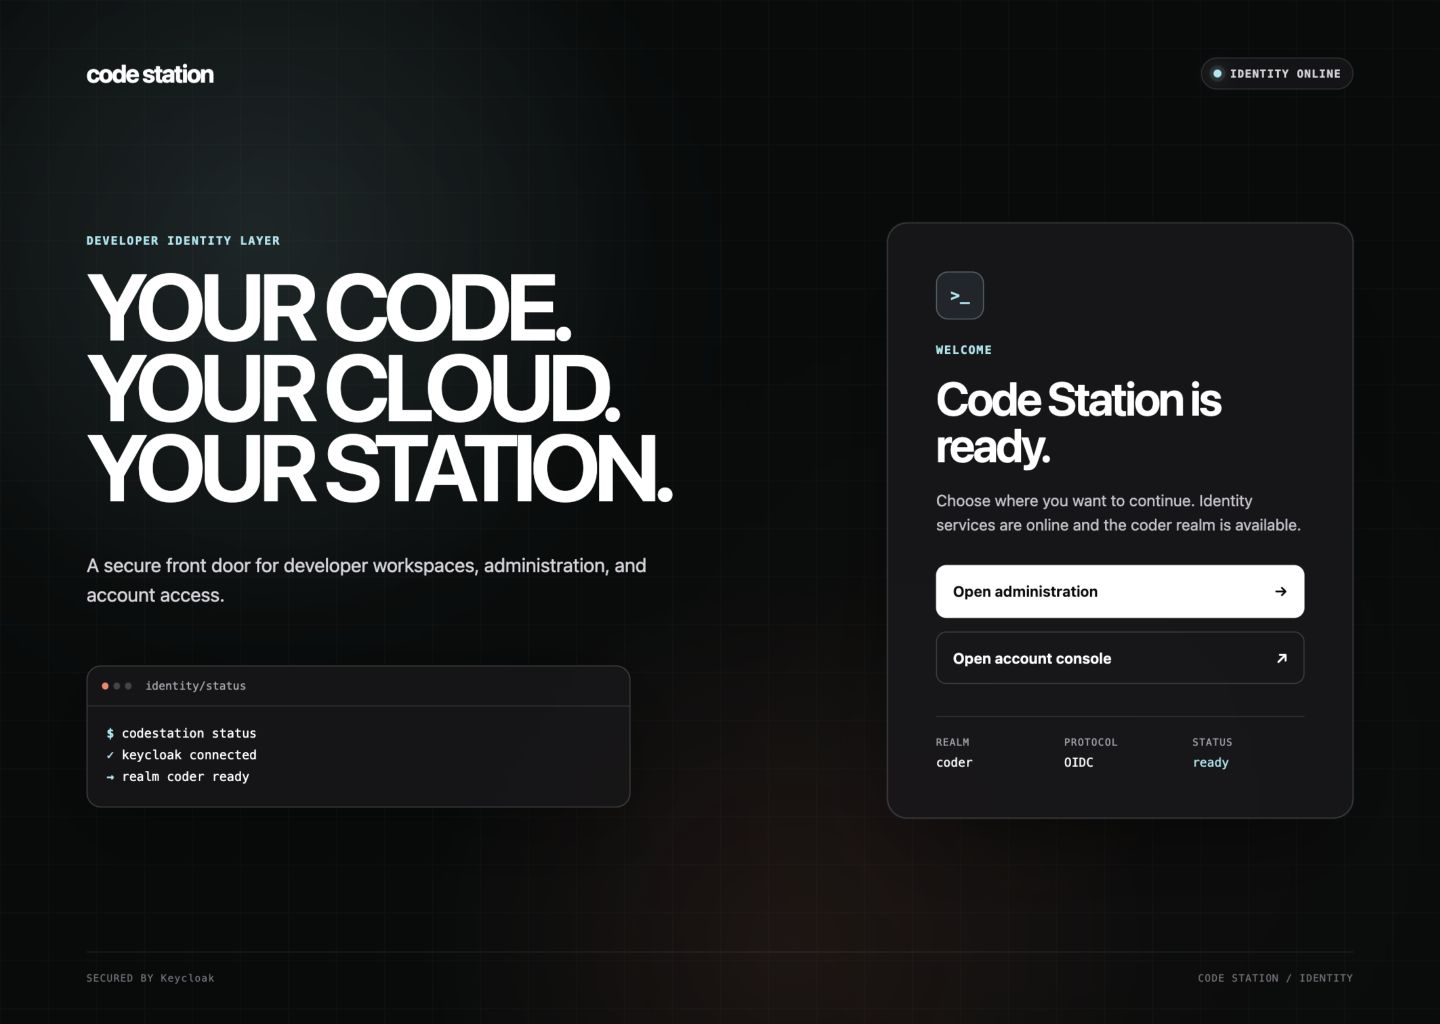
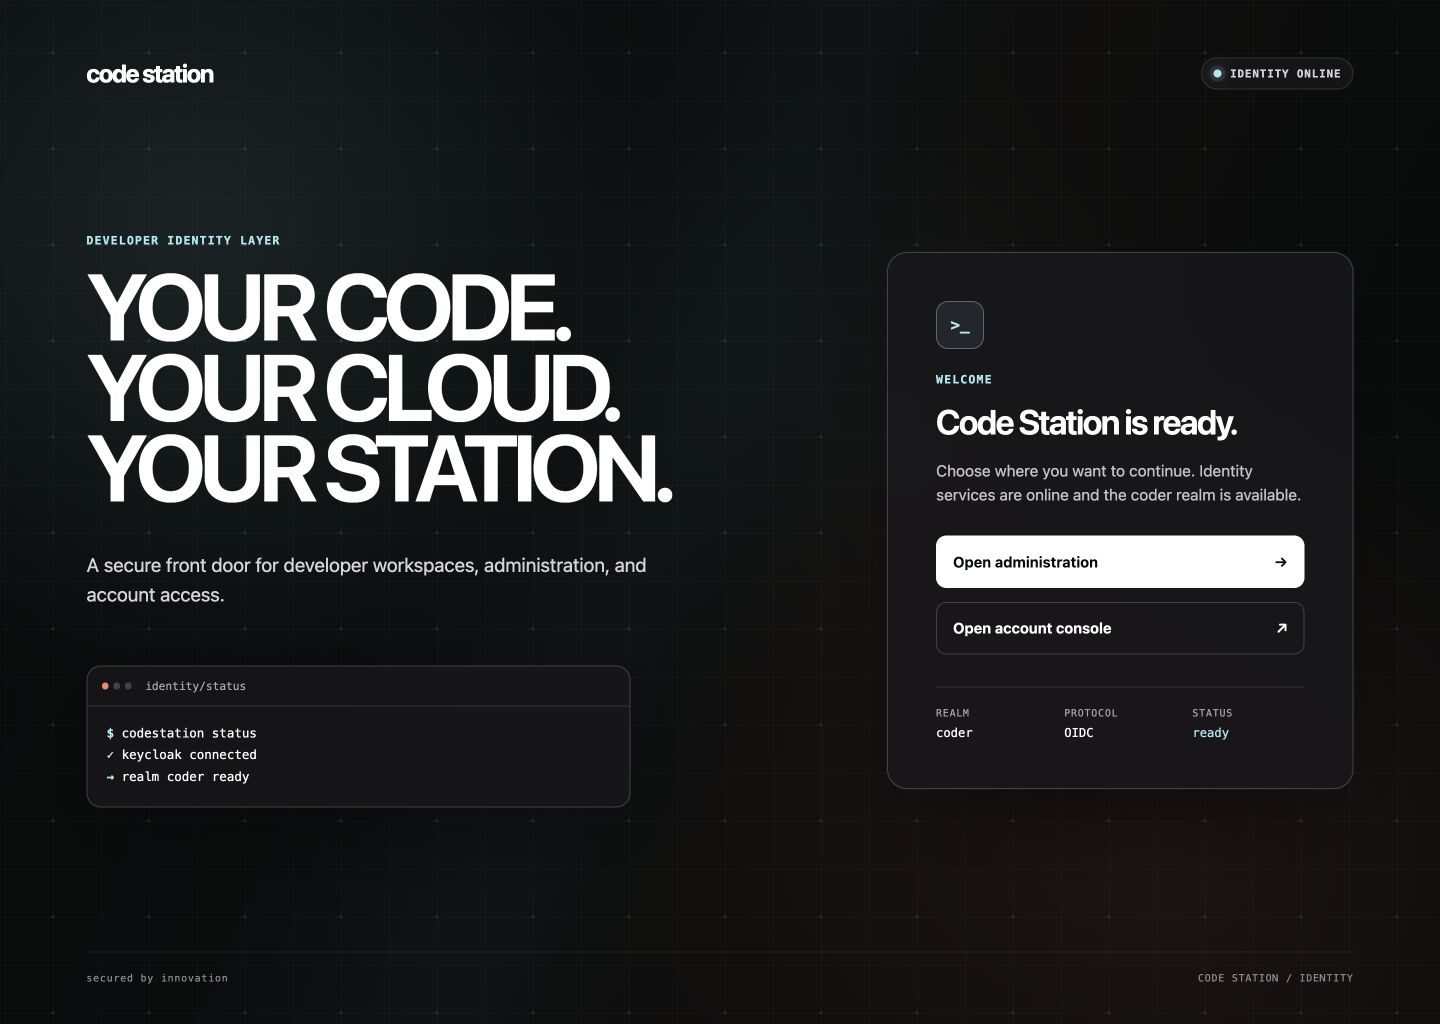
feat: refine Code Station welcome experience

diff --git a/theme/coder/welcome/resources/css/welcome.css b/theme/coder/welcome/resources/css/welcome.css
@@ -41,42 +41,56 @@ body::after {
 }
 
 body::before {
-  inset: 0;
-  opacity: 0.46;
+  inset: -96px;
+  opacity: 0.58;
   background-image:
-    linear-gradient(rgba(255, 255, 255, 0.035) 1px, transparent 1px),
-    linear-gradient(90deg, rgba(255, 255, 255, 0.035) 1px, transparent 1px),
-    radial-gradient(circle at 18% 22%, rgba(164, 232, 242, 0.2), transparent 28%),
-    radial-gradient(circle at 55% 92%, rgba(255, 128, 103, 0.17), transparent 30%);
-  background-size: 48px 48px, 48px 48px, auto, auto;
+    linear-gradient(rgba(255, 255, 255, 0.052) 1px, transparent 1px),
+    linear-gradient(90deg, rgba(255, 255, 255, 0.052) 1px, transparent 1px),
+    radial-gradient(circle, rgba(164, 232, 242, 0.24) 1px, transparent 1.6px);
+  background-size: 48px 48px, 48px 48px, 96px 96px;
+  transform: translate3d(0, 0, 0);
+  animation: welcome-grid-flow 18s linear infinite;
+  will-change: transform;
 }
 
 body::after {
-  inset: -15%;
-  opacity: 0.2;
+  inset: -20%;
+  opacity: 0.32;
   background:
-    radial-gradient(circle at 28% 34%, rgba(164, 232, 242, 0.24), transparent 28%),
-    radial-gradient(circle at 68% 72%, rgba(255, 128, 103, 0.16), transparent 32%);
-  filter: blur(44px);
-  transform: translate3d(-1.5%, -1%, 0) scale(1.01);
-  animation: welcome-ambient-drift 24s ease-in-out infinite alternate;
-  will-change: transform, opacity;
+    linear-gradient(
+      112deg,
+      transparent 24%,
+      rgba(164, 232, 242, 0.04) 39%,
+      rgba(164, 232, 242, 0.16) 48%,
+      rgba(255, 255, 255, 0.06) 51%,
+      rgba(255, 128, 103, 0.1) 55%,
+      transparent 72%
+    ),
+    radial-gradient(circle at 24% 30%, rgba(164, 232, 242, 0.42), transparent 25%),
+    radial-gradient(circle at 72% 74%, rgba(255, 128, 103, 0.3), transparent 28%),
+    radial-gradient(circle at 58% 42%, rgba(164, 232, 242, 0.16), transparent 22%);
+  filter: blur(36px) saturate(112%);
+  animation: welcome-ambient-drift 14s ease-in-out infinite alternate;
+  will-change: opacity;
+}
+
+@keyframes welcome-grid-flow {
+  to {
+    transform: translate3d(96px, 96px, 0);
+  }
 }
 
 @keyframes welcome-ambient-drift {
   0% {
-    opacity: 0.16;
-    transform: translate3d(-1.5%, -1%, 0) scale(1.01);
+    opacity: 0.26;
   }
 
   50% {
-    opacity: 0.23;
-    transform: translate3d(1.5%, 1%, 0) scale(1.035);
+    opacity: 0.42;
   }
 
   100% {
-    opacity: 0.18;
-    transform: translate3d(-0.5%, 1.75%, 0) scale(1.02);
+    opacity: 0.32;
   }
 }
 
@@ -261,10 +275,11 @@ body::after {
 .welcome-card h2 {
   margin: 0;
   color: var(--station-white);
-  font-size: clamp(2rem, 3.25vw, 3rem);
+  font-size: clamp(1.85rem, 2.4vw, 2.15rem);
   font-weight: 620;
   line-height: 1;
   letter-spacing: -0.05em;
+  white-space: nowrap;
 }
 
 .welcome-card-copy {
@@ -493,7 +508,7 @@ body::after {
   }
 
   .welcome-card h2 {
-    font-size: 2.25rem;
+    font-size: clamp(1.35rem, 7.4vw, 1.8rem);
   }
 
   .welcome-meta {
@@ -506,8 +521,15 @@ body::after {
 }
 
 @media (prefers-reduced-motion: reduce) {
+  body::before {
+    inset: 0;
+    opacity: 0.48;
+    transform: none;
+    animation: none;
+  }
+
   body::after {
-    opacity: 0.18;
+    opacity: 0.24;
     transform: none;
     animation: none;
   }

diff --git a/README.md b/README.md
@@ -67,4 +67,4 @@ theme/coder/welcome/
 The theme uses the Code Station name as text and contains no Coder logo asset.
 It is an independent, unofficial project and is not affiliated with or endorsed by Coder Technologies, Inc.
 
-The implementation includes visible keyboard focus, associated native Keycloak labels, high-contrast controls, responsive layouts, and `prefers-reduced-motion` support. A slow cyan-and-ember ambient glow moves behind the static grid and is disabled when reduced motion is requested.
+The implementation includes visible keyboard focus, associated native Keycloak labels, high-contrast controls, responsive layouts, and `prefers-reduced-motion` support. A cyan-and-ember workspace signal pulses behind a drifting network grid and is disabled when reduced motion is requested.
